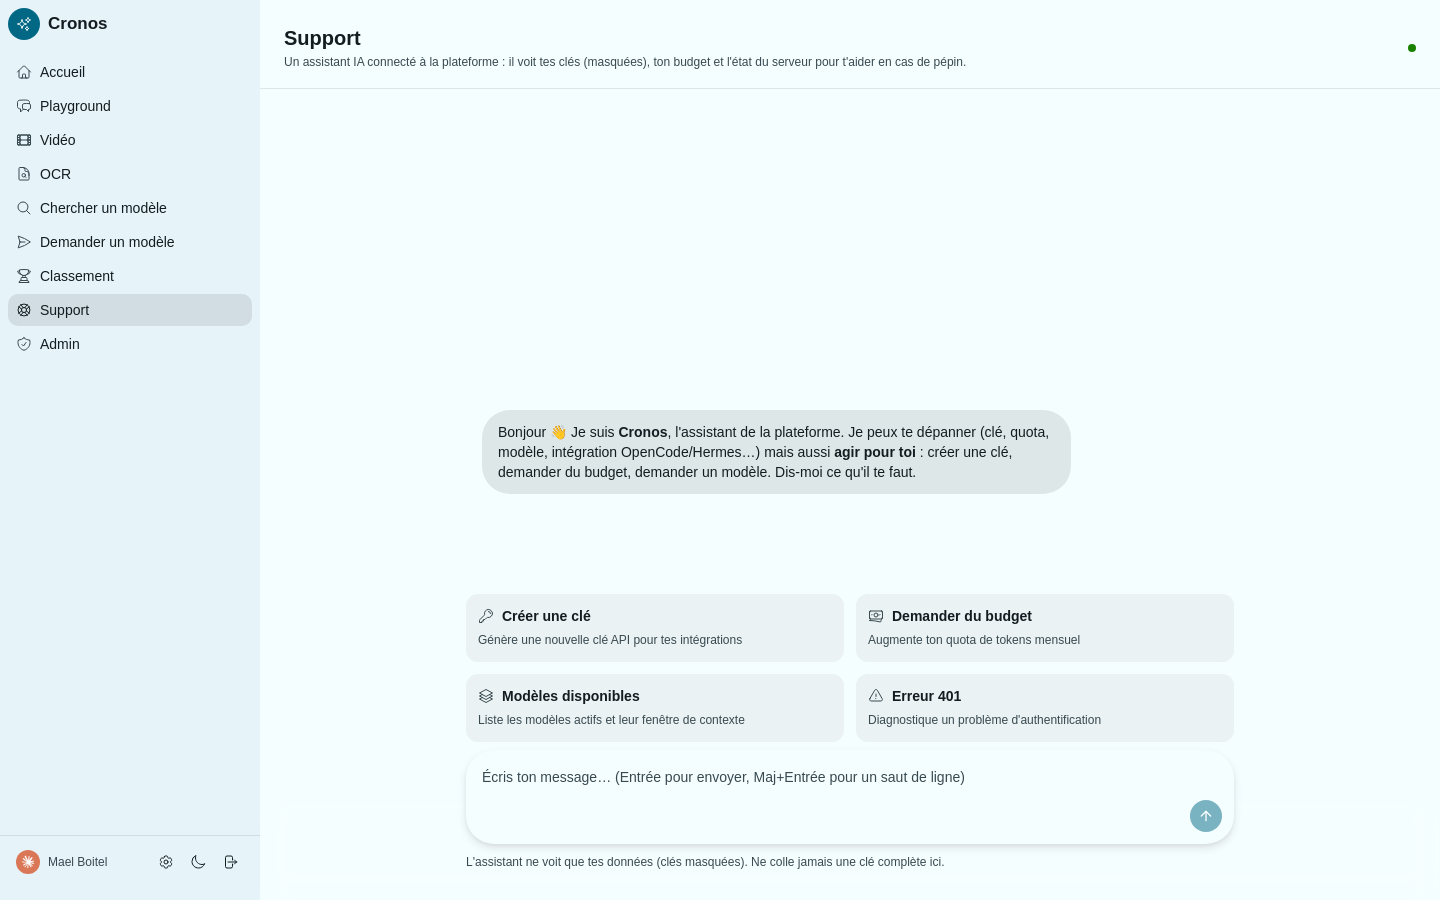
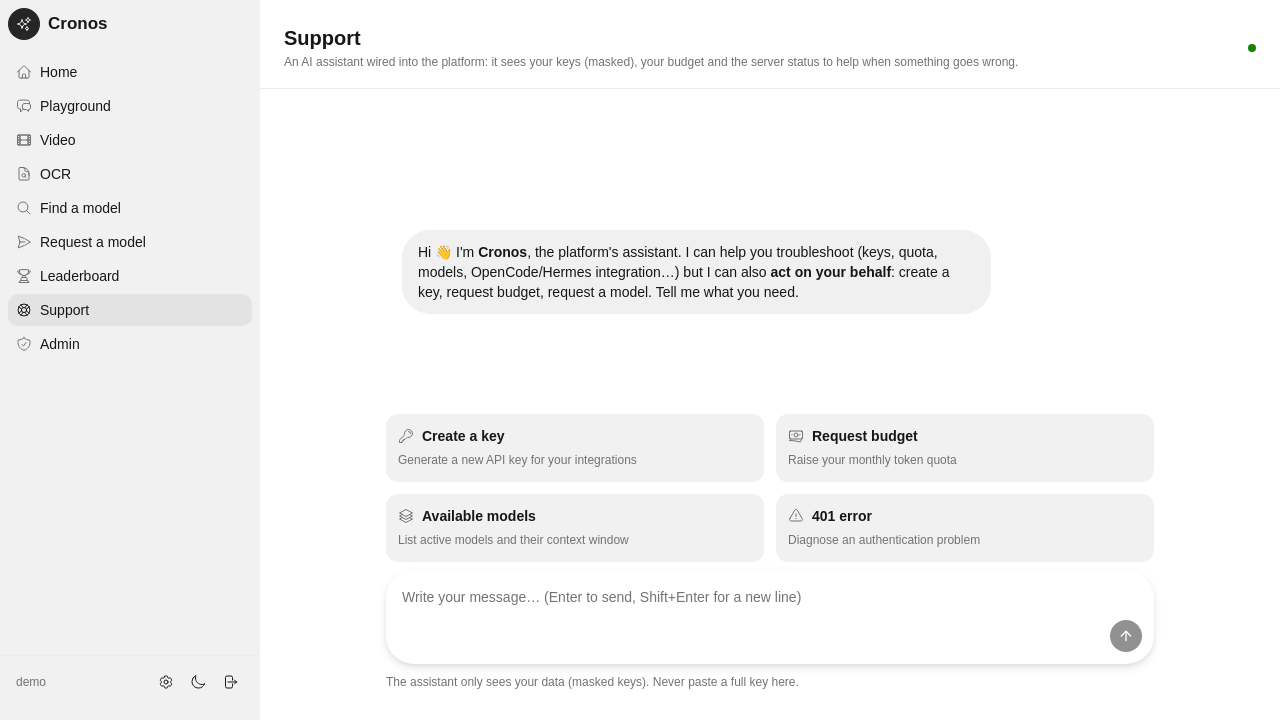
Refresh READMEs and screenshots for English UI, latest features
Screenshots retaken end-to-end with a temporary demo account (created,
used, then fully removed afterward: local login entry, LiteLLM key,
DB rows, stored OCR image, temporary admin grant all cleaned up) so no
real user data or conversation content appears. Added OCR (bounding-box
zone view) and video generation screenshots, previously missing from
both READMEs despite being core features. Updated both READMEs' stale
"French-only, no language toggle" claims to reflect the working EN/FR
toggle, defaulting to English. Fixed one more untranslated string found
live in the admin panel ("Vidéo — MiniMax H3").

diff --git a/dgx-portal-frontend/app/(app)/admin/page.tsx b/dgx-portal-frontend/app/(app)/admin/page.tsx
@@ -348,7 +348,7 @@ export default function AdminPage() {
                             variant={SIDECAR_VARIANT[data.video_status] ?? "error"}
                             label={t(SIDECAR_LABEL[data.video_status] ?? "Injoignable")}
                           />
-                          <Text weight="semibold">Vidéo — MiniMax H3</Text>
+                          <Text weight="semibold">{t("Vidéo")} — MiniMax H3</Text>
                         </HStack>
                         {data.video_status === "running" || data.video_status === "starting" ? (
                           <Button label={t("Arrêter")} variant="secondary" size="sm" icon={<Icon icon={StopIcon} size="sm" />} onClick={() => act("/admin/video/stop")} />

diff --git a/dgx-portal-frontend/README.md b/dgx-portal-frontend/README.md
@@ -3,7 +3,7 @@
 The web UI for **Cronos**, the DGX Spark self-service LLM platform. Built with
 **Next.js 16** (App Router) and Meta's **Astryx** design system (React +
 StyleX). It owns the platform's public port (`:5000`) and covers every page:
-home, playground, keys, search, ranking, request, support, admin, login.
+home, playground, OCR, video, keys, search, ranking, request, support, admin, login.
 
 Flask (`../dgx-portal/`) remains the authority for everything that matters —
 LDAP/OIDC auth, sessions, CSRF, the database, budgets, model launching. This
@@ -88,29 +88,42 @@ entirely from Astryx components (`AppShell`, `SideNav`, `Layout`, `Stack`,
 build "<idea>"` finds the closest existing template/block instead of
 hand-rolling it. Full conventions are in `AGENTS.md` / `CLAUDE.md`.
 
-The UI text is **French-only** — there's no language toggle (the old Flask
-app's FR/EN translation hook was removed along with the Jinja templates it
-only ever applied to).
+The UI supports **English and French**, toggled from Settings → Appearance
+(persisted to `localStorage` and synced to the account's saved preference via
+`/api/whoami` / `/settings/appearance`). English is the default for any
+account with no saved preference. Translation is deliberately low-tech:
+`lib/i18n.tsx`'s `useT()` hook takes the French string used in the JSX as its
+own dictionary key (`t("Chercher un modèle")`), and looks it up in a flat
+`EN` dictionary; a key with no English entry silently falls back to the
+French original instead of showing a broken key name. A handful of dynamic,
+backend-generated strings with a small fixed set of possible values (ranking
+period labels, usage-limit labels) are translated the same way — the backend
+stays French-only and the frontend maps the known literal values it can send.
 
 ## Structure
 
 ```
 app/
 ├── layout.tsx                    # root layout; force-dynamic (required for CSP nonces)
-├── theme-provider.tsx             # light/dark, follows the browser by default
+├── theme-provider.tsx             # light/dark + language, follows the browser/localStorage by default
 ├── login/page.tsx                 # LDAP + SSO, both shown directly (no toggle)
 ├── (app)/                         # authenticated pages, shared AppShell + SideNav
 │   ├── layout.tsx                 # nav, theme toggle, logout
 │   ├── page.tsx                   # home: server stats, active model, usage chart
 │   ├── playground/                # streaming chat against the active model
+│   ├── ocr/                       # OCR: upload/extract, streamed, bounding-box zone view
+│   ├── video/                     # video generation (MiniMax H3, text- or image-driven)
 │   ├── support/                   # streaming chat with the Cronos assistant (tool-calling)
 │   ├── keys/, search/, ranking/, request/, admin/
+│   └── _components/SettingsDialog.tsx   # account/usage/keys/appearance/MCP/skills, incl. the language toggle
+├── api/ocr/extract/route.ts       # SSE proxy for the OCR multipart upload (see above)
 ├── playground/chat/route.ts       # SSE proxy (see above)
 ├── support/chat/route.ts          # SSE proxy
 └── admin/runner/stream/route.ts   # SSE proxy (live vLLM launch logs)
 lib/
-├── api.ts        # authFetch, getJSON, postForm, streamChat, streamSupportChat
+├── api.ts        # authFetch, getJSON, postForm, streamChat, streamSupportChat, streamOcr
 ├── sseProxy.ts   # shared proxySSE/proxySSEGet used by the route handlers above
+├── i18n.tsx      # useT()/useLang() — see "UI conventions" above
 ├── useCsrf.ts
 ├── conversations.ts   # localStorage-backed Playground chat history
 └── types.ts

diff --git a/README.md b/README.md
@@ -21,7 +21,9 @@ It provides:
   the portal with a live bounding-box visualization of detected regions —
   never exposed as separate public UIs;
 - an admin **maintenance mode** that blocks non-admin API/portal traffic without
-  stopping any model, enforced both in the portal and at the edge (Traefik).
+  stopping any model, enforced both in the portal and at the edge (Traefik);
+- a UI available in **English and French**, switchable per account from Settings
+  → Appearance (English by default).
 
 ![Cronos portal — home dashboard](assets/dashboard.png)
 
@@ -128,10 +130,11 @@ go to **Admin**, and launch a model from the catalog.
 
 > `.env` is **gitignored** — no secret is committed. `.env.example` holds only placeholders.
 >
-> The UI itself (`dgx-portal-frontend`) is **French-only** — there's no
-> language toggle. `docker-compose.yml` reads `BACKEND_URL` to reach Flask
-> internally; the default (`http://dgx-portal:5000`) matches the compose
-> service name and rarely needs changing.
+> The UI (`dgx-portal-frontend`) supports **English and French**, toggled
+> from Settings → Appearance; English is the default. `docker-compose.yml`
+> reads `BACKEND_URL` to reach Flask internally; the default
+> (`http://dgx-portal:5000`) matches the compose service name and rarely
+> needs changing.
 
 ---
 
@@ -195,7 +198,7 @@ env vars — key and endpoint pre-filled.
   formatted panel (same pattern as the Playground), with a toggle to visualize
   every detected region as bounding boxes over the source image; keeps your
   last 20 results, including the analyzed image itself.
-- **Vidéo** — turn a text description, with or without a reference image, into
+- **Video** — turn a text description, with or without a reference image, into
   a short video with synced audio (MiniMax H3), polled to completion; keeps
   your last 3 results.
   Both OCR and video show a clear empty state if no backend is currently running,
@@ -204,6 +207,10 @@ env vars — key and endpoint pre-filled.
   model catalog and server status, and can **act for you**: create a key, revoke one,
   request budget, request a model (admins also get launch/stop). Actions are always
   scoped server-side to the logged-in user; impactful ones require in-chat confirmation.
+- **Find a model** (`/search`) — live search over the Hugging Face Hub (no local
+  cache), filterable by task including text/image/video generation, defaulting
+  to models tagged as tested on GB10; paginated ("Load more") rather than
+  capped at the first page.
 - **Leaderboard** (`/ranking`) — ranks users by weighted spend (day/week/month),
   colorblind-safe palette, from LiteLLM's Postgres spend logs.
 - **Home** — live server stats (CPU/RAM/GPU), active-model health (tok/s, queue,
@@ -222,6 +229,10 @@ env vars — key and endpoint pre-filled.
 | Playground — in-browser streaming chat | Support — the Cronos assistant taking actions |
 |---|---|
 | ![Playground](assets/playground.png) | ![Support](assets/support.png) |
+
+| OCR — detected zones, drawn from the actual model output | Video generation — text- or image-driven, MiniMax H3 |
+|---|---|
+| ![OCR](assets/ocr.png) | ![Video](assets/video.png) |
 
 ![My API keys — budget, keys and integration snippets](assets/keys.png)
 
